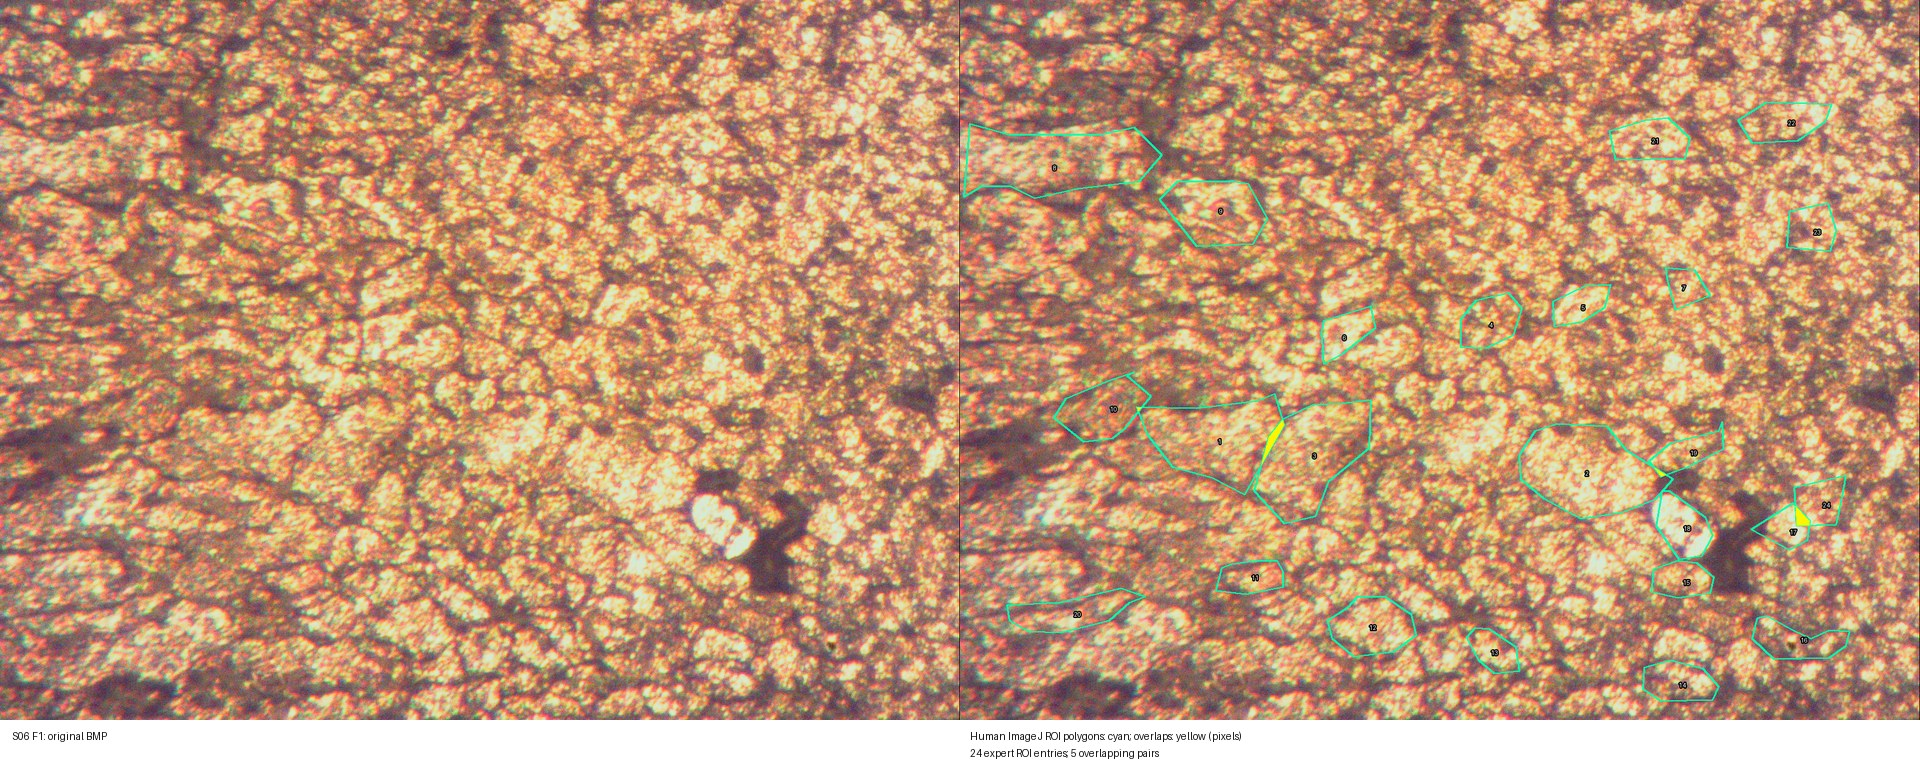
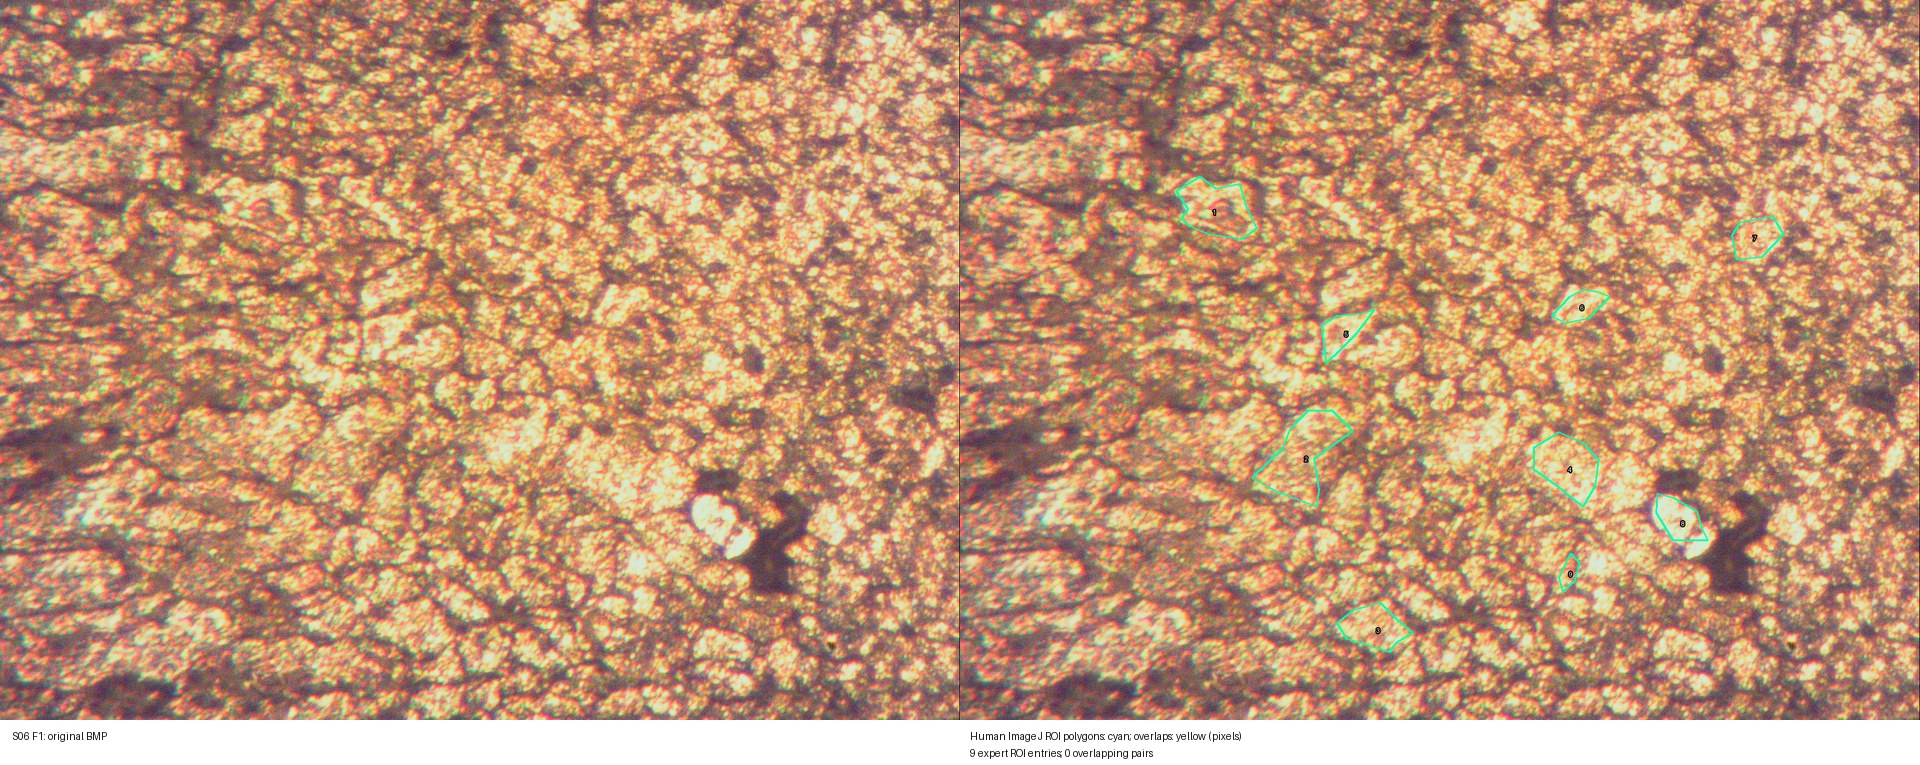
Record Task 4 human-ROI validation status (or comparisons)

diff --git a/Phase1_Task4_Expert_ROI_Validation/output/MANUAL_VALIDATION_STATUS.md b/Phase1_Task4_Expert_ROI_Validation/output/MANUAL_VALIDATION_STATUS.md
@@ -1,14 +1,15 @@
-# Task 4 — expert ROI preflight review
+# Phase 1 Task 4 — Independent manual versus automated optical segmentation
 
-**Status: MANUAL ROI OVERLAP REVIEW REQUIRED.**
+Active manual ROI archives submitted: **1**.
+Preserved historical backup ROI archives ignored: **1**.
+Total independently drawn ROI polygons: **9**.
 
-Original human ROI ZIP archives were found. Their source files are unchanged. The script has deliberately withheld human-vs-automatic IoU/Dice scoring until the overlapping expert polygon selections are reviewed.
+These are agreement metrics for the explicitly traced objects only.
+No assertion of representative metallographic grain-size distribution or mechanism is made until expert field selection and boundary identity are signed off.
 
-- S06 field 1: 24 actual ROI entries, 5 overlapping ROI pair(s), 3 substantive, 1228 overlap pixel(s).
-  - ROI #1 versus #3: 649 pixels; 2.67% of smaller ROI.
-  - ROI #1 versus #10: 31 pixels; 0.29% of smaller ROI.
-  - ROI #2 versus #18: 1 pixels; 0.01% of smaller ROI.
-  - ROI #2 versus #19: 88 pixels; 1.77% of smaller ROI.
-  - ROI #17 versus #24: 459 pixels; 10.84% of smaller ROI.
+The sources of human ROI data are the uploaded ROI ZIP archives, not programmatic simulations.
+Human contours were compared to rerun historical GrainStat objects on matching TIFFs, with exact BMP pixel identities and the fixed S10–S12 label crosswalk.
 
-Refer to the individual Sxx_Fy_manual_ROI_overlap_diagnostic.jpg and overlapping-pairs CSVs, then edit the ROI Manager entries in Fiji/ImageJ, verify boundaries and re-export the authentic human ROI ZIP. Do not automatically delete overlapping ROIs.
+Expert signoff remains pending. Numerical agreement alone does not determine physical grain identity.
+
+See manual_vs_auto_per_roi.csv, manual_vs_auto_per_field.csv and generated three-panel images.
